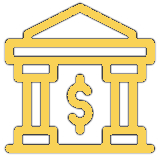
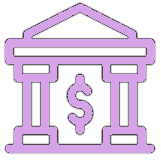
入口和登录布局修改

diff --git a/src/views/user/EntrySelect.vue b/src/views/user/EntrySelect.vue
@@ -58,14 +58,16 @@ export default {
 
 .card-container {
     display: flex;
-    justify-content: space-around; /* 在卡片之间均匀分布空隙 */
+    justify-content: space-around;
+    /* 在卡片之间均匀分布空隙 */
     align-items: center;
     width: 100%;
-    margin-top: 80px;
+    margin-top: 100px;
     margin-left: auto;
     margin-right: auto;
     background-color: transparent;
-    gap: 20px; /* 减少卡片之间的间距 */
+    gap: 20px;
+    /* 减少卡片之间的间距 */
 }
 
 @media (min-width: 1200px) {
@@ -75,7 +77,10 @@ export default {
 }
 
 /* 设置每个卡片的样式 */
-.card1, .card2, .card3, .card4 {
+.card1,
+.card2,
+.card3,
+.card4 {
     flex: 1;
     min-width: 200px;
     max-width: 280px;
@@ -90,10 +95,21 @@ export default {
     cursor: pointer;
 }
 
-.card1 { background: linear-gradient(135deg, #ff9a9e, #fecfef); }
-.card2 { background: linear-gradient(135deg, #a8e6cf, #dcedc1); }
-.card3 { background: linear-gradient(135deg, #6a9bd0, #85e3ff); }
-.card4 { background: linear-gradient(135deg, #f9d256, #f9f586); }
+.card1 {
+    background: linear-gradient(135deg, #ff9a9e, #fecfef);
+}
+
+.card2 {
+    background: linear-gradient(135deg, #a8e6cf, #dcedc1);
+}
+
+.card3 {
+    background: linear-gradient(135deg, #6a9bd0, #85e3ff);
+}
+
+.card4 {
+    background: linear-gradient(135deg, #d6a2e8, #e5b0e4);
+}
 
 
 .icon {
@@ -113,7 +129,7 @@ export default {
 
 .text {
     margin-top: 20px;
-    font-size: 2em; 
+    font-size: 2em;
     color: white;
 }
 
@@ -124,5 +140,4 @@ export default {
     bottom: 20px;
     width: 100%;
 }
-
 </style>

diff --git a/src/views/newWorkFlow/flowDeposit.vue b/src/views/newWorkFlow/flowDeposit.vue
@@ -633,13 +633,14 @@ export default {
           // 状态映射
           const taskStateMapping = {
             '总包施工单位提交保证金存缴申请': '待提交申请',
-            '科长审核保证金金额以及相关信息': '科长待审核',
-            '主管审核保证金金额以及相关信息': '主管待审核',
+            '承办人审核保证金金额以及相关信息': '承办人员待审核申请信息',
+            '业务主管领导审核保证金金额以及相关信息': '业务主管领导待审核申请信息',
+            '人社主管领导审核保证金金额以及相关信息': '人社主管领导待审核申请信息',
             '总包施工单位上传银行存单电子版文件': '待上传文件',
-            '经纪公司审核银行存单': '经济公司待审核',
-            '承办人审核保证金金额以及相关信息': '承办人员待审核',
-            '业务主管领导审核保证金金额以及相关信息': '业务主管领导待审核',
-            '人社主管领导审核保证金金额以及相关信息': '人社主管领导待审核'
+            '经纪公司审核银行存单': '经济公司待审核银行存单',
+            '承办人审核银行存单': '承办人员待审核银行存单',
+            '业务主管领导审核银行存单': '业务主管领导待审核银行存单',
+            '人社主管领导审核银行存单': '人社主管领导待审核银行存单'
           };
           this.flowHistoryData = [
             ...res.result.instance.map(item => ({

diff --git a/src/views/user/Login.vue b/src/views/user/Login.vue
@@ -37,7 +37,7 @@
             </a-col>
           </a-row>
         </a-tab-pane>
-        <a-tab-pane key="tab2" tab="手机号登录">
+        <!-- <a-tab-pane key="tab2" tab="手机号登录">
           <a-form-item>
             <a-input v-decorator="['mobile', validatorRules.mobile]" size="large" type="text" placeholder="手机号">
               <a-icon slot="prefix" type="mobile" :style="{ color: 'rgba(0,0,0,.25)' }" />
@@ -58,7 +58,7 @@
                 v-text="(!state.smsSendBtn && '获取验证码') || state.time + ' s'"></a-button>
             </a-col>
           </a-row>
-        </a-tab-pane>
+        </a-tab-pane> -->
       </a-tabs>
 
       <!-- <a-form-item>
@@ -480,7 +480,7 @@ export default {
 <style lang="less" scoped>
 .user-layout-login {
   background-color: white;
-  margin-top: 80px;
+  // margin-top: 100px;
   padding: 20px;
   border-radius: 8px;
   box-shadow: 0 4px 12px rgba(0, 0, 0, 0.1);

diff --git a/src/components/layouts/UserLayout.vue b/src/components/layouts/UserLayout.vue
@@ -28,7 +28,7 @@
           主办单位：黄冈市人力资源和社会保障局
         </div>
         <div class="footer-text">
-          技术支持：
+          技术支持：金诚国际保险经纪有限公司黄冈分公司
         </div>
       </div>
     </div>
@@ -97,6 +97,14 @@ export default {
   }
 
   .container {
+    display: flex;
+    flex-direction: column;
+    justify-content: center;
+    align-items: center;
+    min-height: 100vh;
+    padding: 110px 0 144px;
+    width: 100%;
+    position: relative;
     width: 100%;
     min-height: 100%;
     // background: #f0f2f5 url(~@/assets/background.svg) no-repeat 50%;
